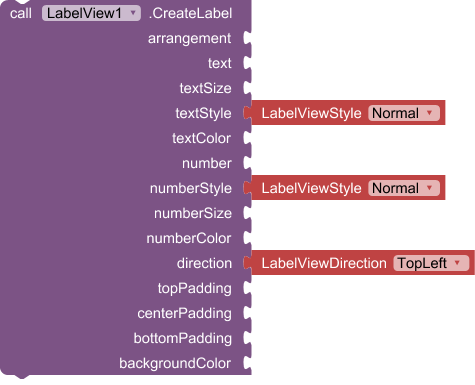
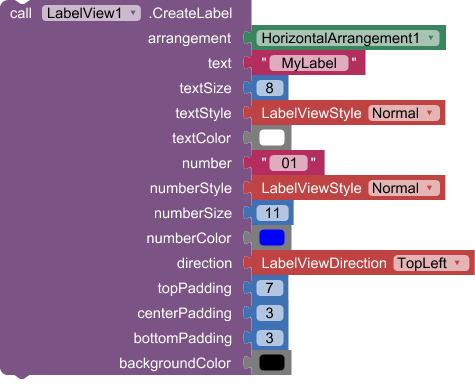
Added Shadow blocks.
- Migrated to FAST-CLI v5.1+

diff --git a/src/com/jewel/labelview/LabelView.java b/src/com/jewel/labelview/LabelView.java
@@ -4,11 +4,12 @@ import android.content.Context;
 import android.view.ViewGroup;
 
 import com.google.appinventor.components.annotations.DesignerComponent;
+import com.google.appinventor.components.annotations.IsColor;
+import com.google.appinventor.components.annotations.Shadow;
 import com.google.appinventor.components.annotations.SimpleFunction;
 import com.google.appinventor.components.runtime.AndroidNonvisibleComponent;
 import com.google.appinventor.components.runtime.ComponentContainer;
 import com.google.appinventor.components.runtime.HVArrangement;
-
 import com.jewel.labelview.helpers.LabelViewDirection;
 import com.jewel.labelview.helpers.LabelViewStyle;
 
@@ -31,9 +32,11 @@ public class LabelView extends AndroidNonvisibleComponent {
 
   @SimpleFunction("A simple label control supports custom text size,\n"
       + "spacing (Top/Center/Bottom Padding), background color, and direction, etc.")
-  public void CreateLabel(HVArrangement arrangement, String text, float textSize, LabelViewStyle textStyle,
-      int textColor, String number, LabelViewStyle numberStyle, float numberSize, int numberColor,
-      LabelViewDirection direction, float topPadding, float centerPadding, float bottomPadding, int backgroundColor) {
+  public void CreateLabel(@Shadow("HorizontalArrangement1") HVArrangement arrangement, @Shadow("MyLabel") String text,
+      @Shadow("8") float textSize, LabelViewStyle textStyle, @IsColor("white") int textColor,
+      @Shadow("01") String number, LabelViewStyle numberStyle, @Shadow("11") float numberSize,
+      @IsColor("blue") int numberColor, LabelViewDirection direction, @Shadow("7") float topPadding,
+      @Shadow("3") float centerPadding, @Shadow("3") float bottomPadding, @IsColor("#000000") int backgroundColor) {
     ViewGroup viewGroup = (ViewGroup) arrangement.getView();
     ViewLabel labelView = new ViewLabel(context);
     labelView.setText(text);
